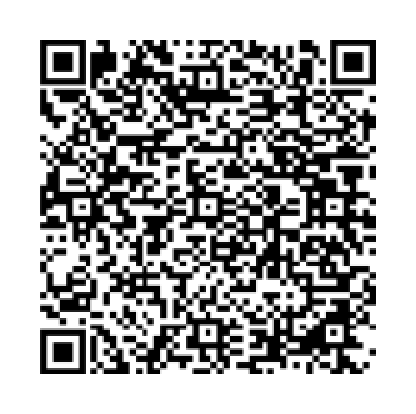
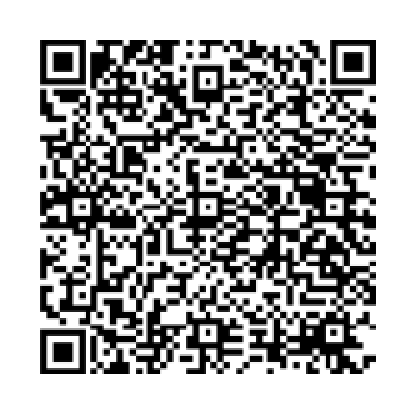
docs: 换用新的体验版二维码（v3.2.1，有效期延至 2026-12-04）
- docs/miniprogram-qr-trial.png 覆盖为新码：裁掉「12月4日前有效」说明文字、加白边、2× 放大（416×414）
- README / 作业交付说明：有效期 2026-12-03 → 2026-12-04，并标注体验版版本 v3.2.1
- 文件名不变，两处文档引用无需改动；test:mp 51/51

diff --git a/README.md b/README.md
@@ -80,7 +80,7 @@
 
 **用微信「扫一扫」上面的二维码即可打开体验版**，不需要开发者工具，也不需要手机与电脑连同一个网络（后端在云端，手机用流量就行）。
 
-- **有效期：2026-12-03**。这是微信后台给出的体验版二维码时效；过期后按本节末尾「二维码怎么更新」重新生成一张、覆盖同名文件即可，文档不用改。
+- **版本 v3.2.1，有效期 2026-12-04**。这是微信后台给出的体验版二维码时效；过期后按本节末尾「二维码怎么更新」重新生成一张、覆盖同名文件即可，文档不用改。
 - **只能被「体验成员」扫开**。老师的微信号已加入本小程序的体验成员；其他同学要体验，把微信号发给作者加入即可（体验成员最多 15 人）。
 - 进入后用手机号注册 / 登录，即可预约挂号、查看我的预约、取消、模拟支付与退款（**模拟流程，不产生任何真实扣款**）。
 - 若扫码后提示「网络错误 / 响应超时」，等十几秒重试一次：云托管最小实例为 0 时首次访问要冷启动（原因见 §3.2.2）；把最小实例数设为 1 可彻底消除。
@@ -118,7 +118,7 @@
 | 版本 | 谁能打开 | 域名校验 | 本项目状态 |
 | --- | --- | --- | --- |
 | 开发版 | 开发者工具、开发者本人 | 可关闭（「详情 → 本地设置」） | ✅ 可运行 |
-| 体验版 | 体验成员（老师微信号已加入） | **不校验**（走云托管通道，请求不经域名白名单） | ✅ 已上传，二维码见本章开头（有效期 2026-12-03） |
+| 体验版 | 体验成员（老师微信号已加入） | **不校验**（走云托管通道，请求不经域名白名单） | ✅ 已上传 v3.2.1，二维码见本章开头（有效期 2026-12-04） |
 | 正式版 | 任何人扫码 / 搜索 | 同样不校验域名，但须先完成**小程序备案**并通过审核 | ⏳ 审核整改中（名称已改，重新提审）；通过后在此放正式版二维码 |
 
 **「服务器域名」这一关本项目已经绕开了**：走云托管通道的请求不受域名白名单约束，所以既不用买域名，也不用配置 request 合法域名——这就是「用云开发 / 云托管无需配置服务器域名」的实际含义。

diff --git a/作业交付说明.md b/作业交付说明.md
@@ -75,7 +75,7 @@
 
 **用微信「扫一扫」上面的二维码即可打开体验版**，不需要安装开发者工具，也不需要手机与电脑连同一个网络（后端在云端）。
 
-- **有效期：2026-12-03**（微信后台给出的体验版二维码时效）。过期后由作者重新生成一张、覆盖同名文件 `docs/miniprogram-qr-trial.png` 即可，文档无需改动。
+- **版本 v3.2.1，有效期 2026-12-04**（微信后台给出的体验版二维码时效）。过期后由作者重新生成一张、覆盖同名文件 `docs/miniprogram-qr-trial.png` 即可，文档无需改动。
 - **只能被「体验成员」扫开**：老师的微信号已在成员名单内；其他同学需要体验，把微信号发给作者加入（体验成员最多 15 人）。
 - 进入后用手机号注册 / 登录，即可预约挂号、查看我的预约、取消、模拟支付与退款（**模拟流程，不产生真实扣款**）。
 - 若扫码后提示「网络错误 / 响应超时」，等十几秒重试一次即可：云托管最小实例为 0 时首次访问需要冷启动（处理办法见 `DEPLOY.md` §12.11）。
@@ -111,7 +111,7 @@
 | 版本 | 谁能打开 | 域名校验 | 本项目状态 |
 | --- | --- | --- | --- |
 | 开发版 | 开发者工具、开发者本人 | 可关闭（「详情 → 本地设置」） | ✅ 可运行 |
-| 体验版 | 体验成员（老师微信号已加入） | **不校验**（走云托管通道，请求不经域名白名单） | ✅ 已上传 |
+| 体验版 | 体验成员（老师微信号已加入） | **不校验**（走云托管通道，请求不经域名白名单） | ✅ 已上传 v3.2.1（二维码见本章开头，有效期 2026-12-04） |
 | 正式版 | 任何人扫码 / 搜索 | 同样不校验域名，但须先完成**小程序备案**并通过审核 | ⏳ 审核整改中（名称已改，重新提审） |
 
 **「服务器域名」这一关本项目已经绕开了**：走云托管通道的请求不受域名白名单约束，所以既不用买域名，也不用配置 request 合法域名——这就是「用云开发 / 云托管无需配置服务器域名」的实际含义。
